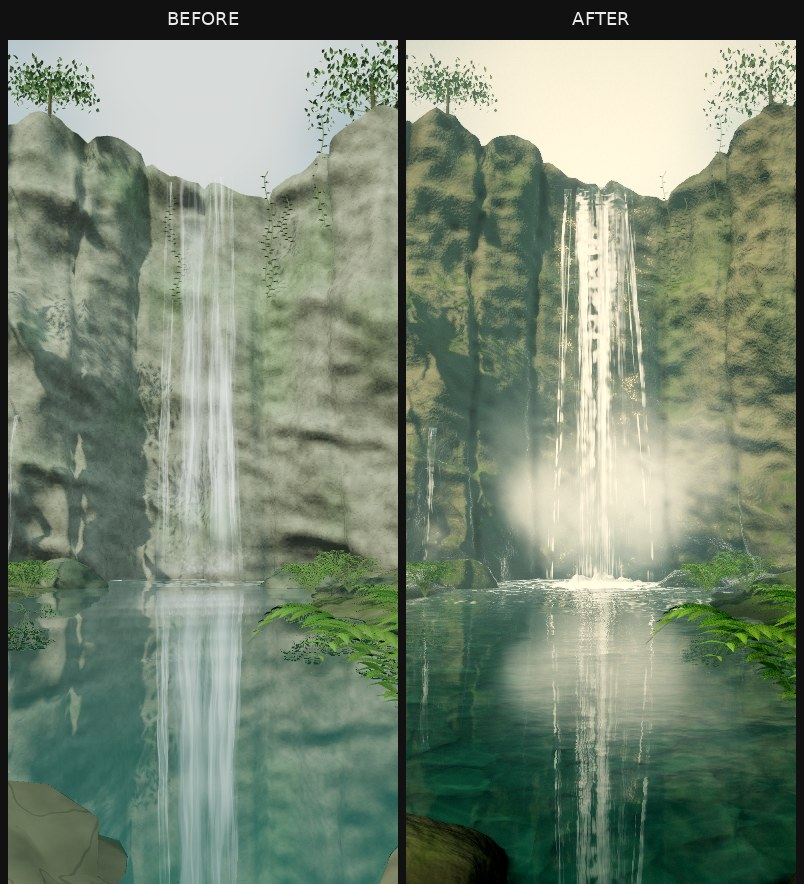
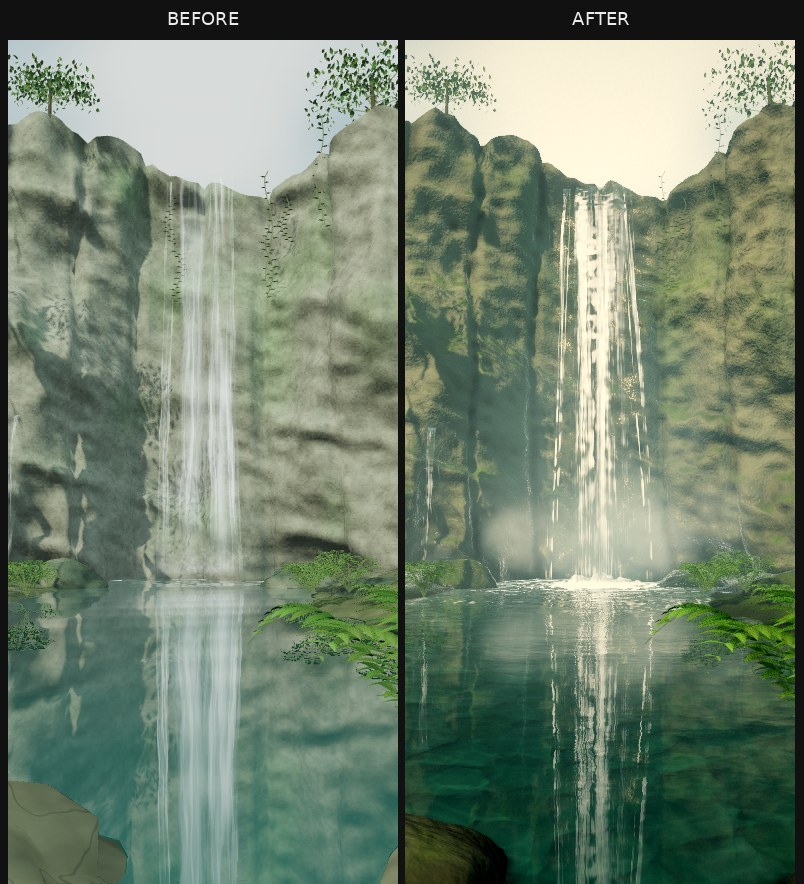
Spread the waterfall mist low and thin instead of a round cloud
The mist billboards stacked into a dense ball beside the fall. They now
start wider, rise less, stay smaller and draw at under half the opacity,
and the marched spray plume carries more of the haze, so the foot of the
fall reads as a low veil.

Claude-Session: https://claude.ai/code/session_01VGKbtA9UtDn2W8JCtvG1sG

diff --git a/components/immersiveWorlds/deepWater/engine/waterfallFlow.ts b/components/immersiveWorlds/deepWater/engine/waterfallFlow.ts
@@ -428,13 +428,13 @@ void main() {
   float r1 = rnd(aSeed.z * 31.1 + k * 1.9), r2 = rnd(aSeed.w * 17.3 + k * 0.7), r3 = rnd(aSeed.x * 53.7 + k * 2.3);
   float t = a * life;
   vec3 foot = mix(uFoot, uSideFoot, side);
-  vec3 c = foot + vec3((r1 - 0.5) * 5.6, 0.1 + r2 * 0.8, r3 * 2.2 + 0.2) * vec3(scale, 1.0, scale);
+  vec3 c = foot + vec3((r1 - 0.5) * 8.0, 0.1 + r2 * 0.5, r3 * 2.2 + 0.2) * vec3(scale, 1.0, scale);
   // Buoyant billows: a quick rise that slows, spreading and leaning downwind.
-  c.y += (1.2 + r3 * 1.3) * (1.0 - exp(-t * 0.45)) / 0.45 * mix(1.0, 0.5, side);
+  c.y += (0.55 + r3 * 0.85) * (1.0 - exp(-t * 0.45)) / 0.45 * mix(1.0, 0.5, side);
   c += uWind * t * mix(1.0, 0.6, side);
   c.x += ((r1 - 0.5) * 0.45 * t + sin(t * 0.9 + r2 * 6.28) * 0.3) * scale;
   c.z += 0.22 * t * scale;
-  float radius = mix(1.1, 3.4 + r2 * 2.0, sqrt(a)) * scale;
+  float radius = mix(1.0, 2.6 + r2 * 1.6, sqrt(a)) * scale;
   vAlpha = smoothstep(0.0, 0.14, a) * (1.0 - smoothstep(0.38, 1.0, a)) * (0.7 + 0.45 * uSurge) * mix(1.0, 0.5, side);
   vec3 right = vec3(viewMatrix[0][0], viewMatrix[1][0], viewMatrix[2][0]);
   vec3 up = vec3(viewMatrix[0][1], viewMatrix[1][1], viewMatrix[2][1]);
@@ -502,7 +502,7 @@ export function createMist(counts: { plunge: number; side: number }, textures: W
     uniforms: {
       uTime: uniforms.time, uSurge: uniforms.surge, uFoot: uniforms.foot, uSideFoot: uniforms.sideFoot, uWind: uniforms.wind,
       tPuff: { value: textures.puff }, uToSun: uniforms.toSun, uSunColor: uniforms.sunColor, uSkyColor: uniforms.skyColor,
-      uWaterY: { value: waterY }, uOpacity: { value: .085 }, uFogColor: uniforms.fogColor, uFogDensity: uniforms.fogDensity,
+      uWaterY: { value: waterY }, uOpacity: { value: .035 }, uFogColor: uniforms.fogColor, uFogDensity: uniforms.fogDensity,
     },
     vertexShader: MIST_VERTEX, fragmentShader: MIST_FRAGMENT,
     transparent: true, depthWrite: false,

diff --git a/components/immersiveWorlds/deepWater/engine/waterfall.ts b/components/immersiveWorlds/deepWater/engine/waterfall.ts
@@ -484,7 +484,7 @@ export function createWaterfall(renderer: THREE.WebGLRenderer): WorldContent {
         vertexShader: FULLSCREEN_VERTEX, fragmentShader: VOLUME_FRAGMENT, depthTest: false, depthWrite: false, toneMapped: false,
         uniforms: {
           uToSun: { value: SUN_TOWARD.clone() }, uSun: { value: new THREE.Vector3(2.2, 2.0, 1.6) }, uSky: { value: new THREE.Vector3(.16, .24, .26) },
-          uFoot: { value: FALL_FOOT.clone() }, uWind: flow.wind, uSurge: flow.surge, uSpray: { value: .24 }, uHaze: { value: .005 },
+          uFoot: { value: FALL_FOOT.clone() }, uWind: flow.wind, uSurge: flow.surge, uSpray: { value: .4 }, uHaze: { value: .005 },
         },
       }) };
     },
